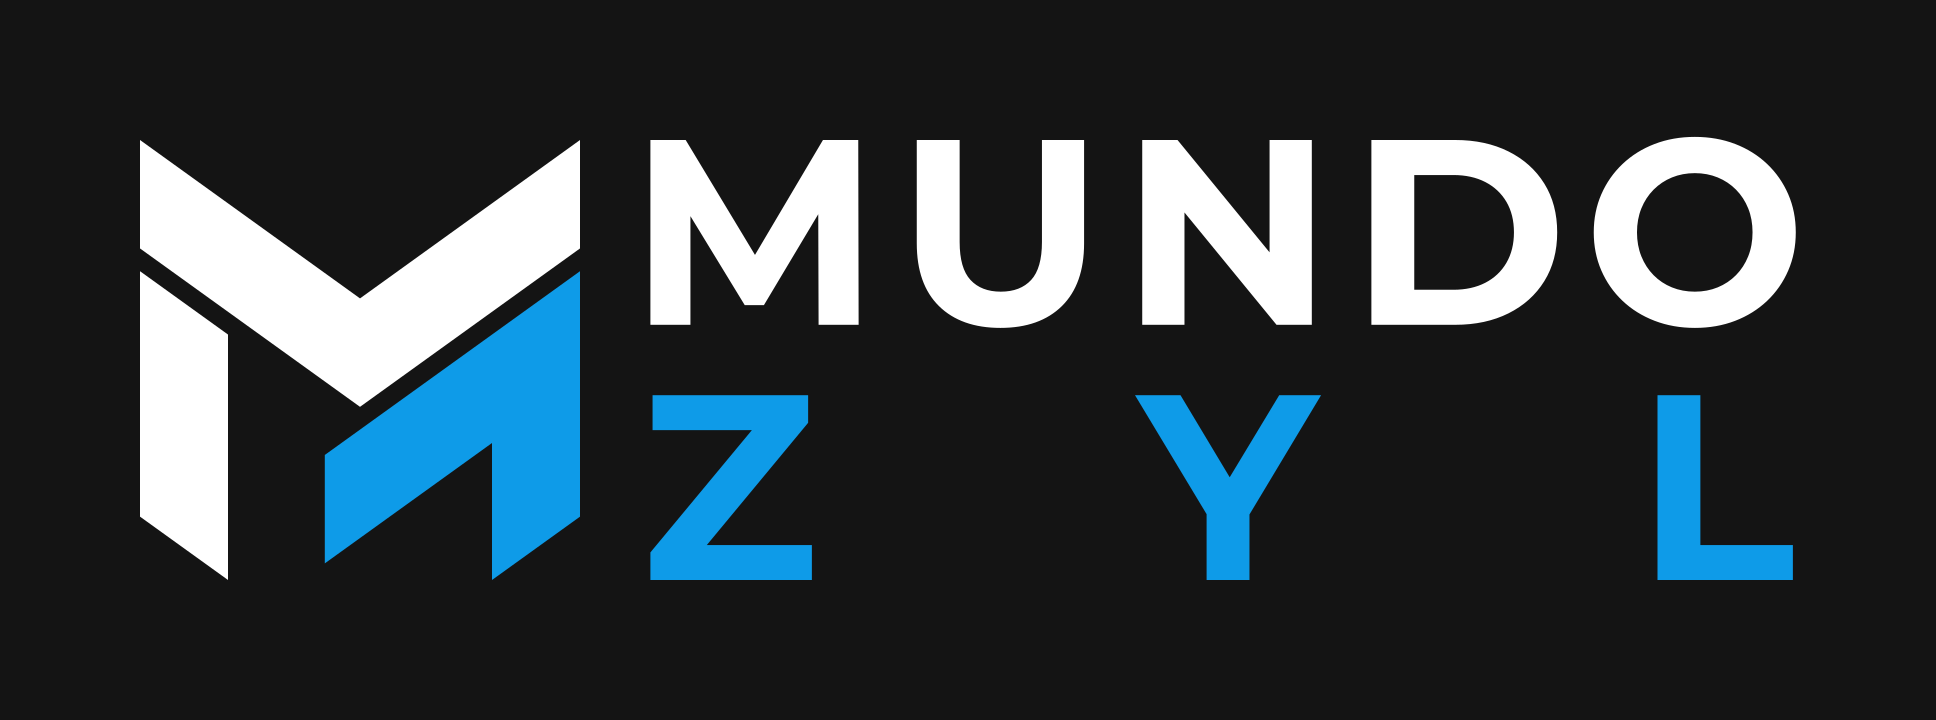
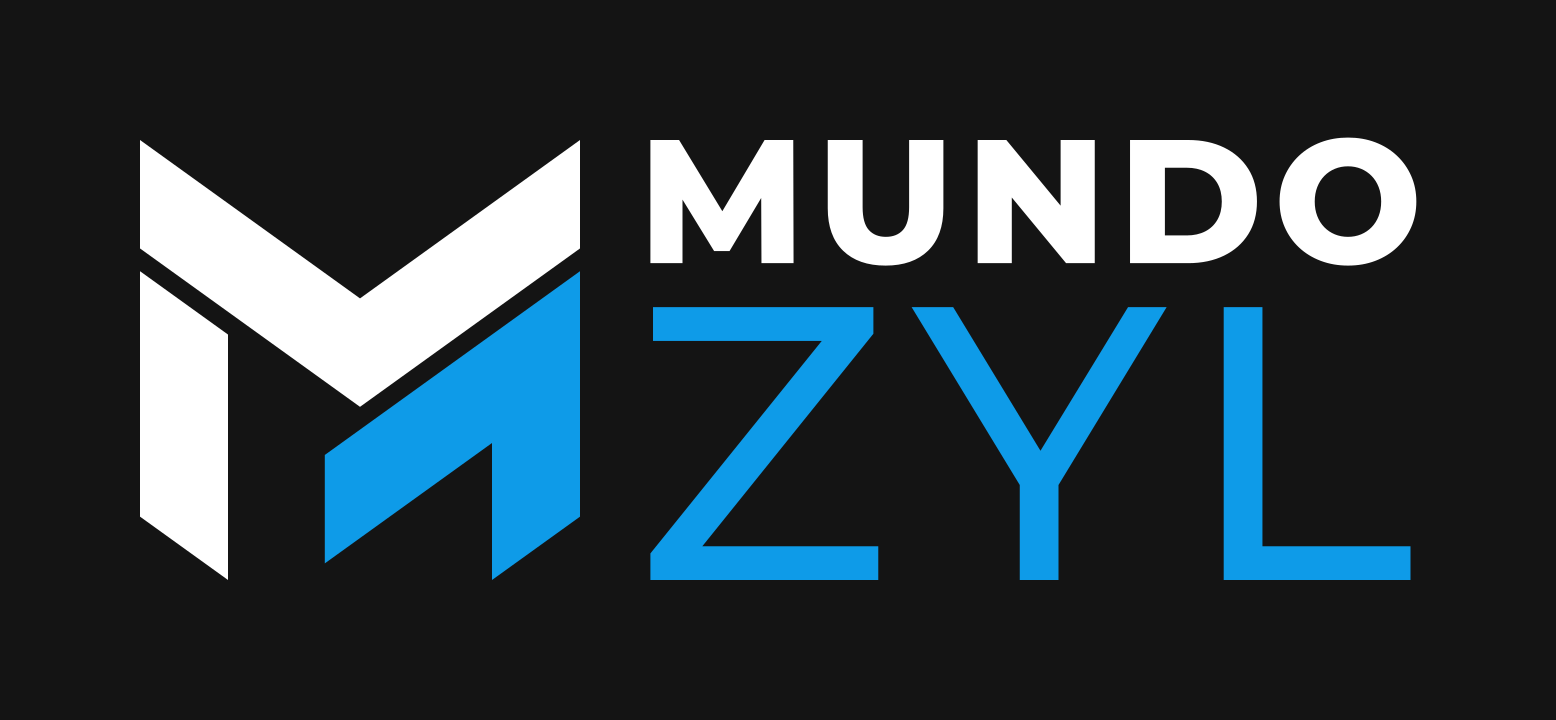
H2 en dos líneas: ZYL más grande al mismo ancho que MUNDO, con pesos equilibrados
Claude-Session: https://claude.ai/code/session_017iQ7X2vjqNYmhsyQEQiYkp

Changed region(s): [[0.0617, 0.1833, 0.9254, 0.825]]

diff --git a/herramientas/generar_logos_ronda3.py b/herramientas/generar_logos_ronda3.py
@@ -60,9 +60,9 @@ def wordmark(x, y_base, cap, c1, c2):
     return f'<path d="{d1}" fill="{c1}"/><path d="{d2}" fill="{c2}"/>', w1 + sep + w2
 
 
-def tinta(cadena, cap, tracking):
+def tinta(cadena, cap, tracking, peso=700):
     """Límites horizontales reales (sin márgenes laterales) del texto en x=0."""
-    f = fuente("montserrat", 700)
+    f = fuente("montserrat", peso)
     gs, cmap = f.getGlyphSet(), f.getBestCmap()
     esc = cap / f["OS/2"].sCapHeight
     pen = BoundsPen(gs)
@@ -74,45 +74,55 @@ def tinta(cadena, cap, tracking):
     return pen.bounds[0], pen.bounds[2]
 
 
+# En dos líneas ZYL va ~2x más grande; para que el grosor del trazo se vea
+# parejo, MUNDO sube de peso y ZYL baja.
+PESO_MUNDO_2L = 800
+PESO_ZYL_2L = 500
+
+
+def proporcion_zyl(tr=0.06):
+    """Cuánto más alto debe ser ZYL que MUNDO para ocupar el mismo ancho."""
+    a0, a1 = tinta("MUNDO", 100, tr, PESO_MUNDO_2L)
+    b0, b1 = tinta("ZYL", 100, tr, PESO_ZYL_2L)
+    return (a1 - a0) / (b1 - b0)
+
+
 def wordmark_2_lineas(x, y_top, cap, interlinea, c1, c2):
-    """MUNDO sobre ZYL, ambas líneas justificadas al mismo ancho de tinta."""
+    """MUNDO sobre ZYL; ZYL se escala (mismo espaciado) hasta igualar el ancho de tinta."""
     tr = 0.06
-    a0, a1 = tinta("MUNDO", cap, tr)
-    ancho = a1 - a0
-    upm_px = 1000 * cap / fuente("montserrat", 700)["OS/2"].sCapHeight
-    b0, b1 = tinta("ZYL", cap, 0)
-    tr_zyl = (ancho - (b1 - b0)) / 2 / upm_px
-    b0, b1 = tinta("ZYL", cap, tr_zyl)
+    cap2 = cap * proporcion_zyl(tr)
+    a0, a1 = tinta("MUNDO", cap, tr, PESO_MUNDO_2L)
+    b0, _ = tinta("ZYL", cap2, tr, PESO_ZYL_2L)
     y1 = y_top + cap
-    y2 = y1 + interlinea + cap
-    d1, _ = texto("montserrat", 700, "MUNDO", cap, x - a0, y1, tr)
-    d2, _ = texto("montserrat", 700, "ZYL", cap, x - b0, y2, tr_zyl)
-    return f'<path d="{d1}" fill="{c1}"/><path d="{d2}" fill="{c2}"/>', ancho
+    y2 = y1 + interlinea + cap2
+    d1, _ = texto("montserrat", PESO_MUNDO_2L, "MUNDO", cap, x - a0, y1, tr)
+    d2, _ = texto("montserrat", PESO_ZYL_2L, "ZYL", cap2, x - b0, y2, tr)
+    return f'<path d="{d1}" fill="{c1}"/><path d="{d2}" fill="{c2}"/>', a1 - a0, cap + interlinea + cap2
 
 
 def horizontal_2_lineas(v, negativo=False):
     """Símbolo a la izquierda; las dos líneas ocupan exactamente su altura."""
     c1, c2, fondo = cols(v, negativo)
     s, m = 220, 70
-    interlinea = s * 0.16
-    cap = (s - interlinea) / 2
+    interlinea = s * 0.10
+    cap = (s - interlinea) / (1 + proporcion_zyl())
     ic = monograma(m, m, s, c1, c2)
     x = m + s + s * 0.16
-    wm, w = wordmark_2_lineas(x, m, cap, interlinea, c1, c2)
+    wm, w, _ = wordmark_2_lineas(x, m, cap, interlinea, c1, c2)
     return svg_doc(x + w + m, s + 2 * m, ic + wm, fondo)
 
 
 def vertical_2_lineas(v, negativo=False):
     c1, c2, fondo = cols(v, negativo)
     s, m = 240, 70
-    cap = 78
-    interlinea = cap * 0.30
-    _, w = wordmark_2_lineas(0, 0, cap, interlinea, c1, c2)
+    cap = 70
+    interlinea = cap * 0.28
+    _, w, h = wordmark_2_lineas(0, 0, cap, interlinea, c1, c2)
     ancho = max(s, w) + 2 * m
     ic = monograma(ancho / 2 - s / 2, m, s, c1, c2)
     y_top = m + s + cap * 0.6
-    wm, _ = wordmark_2_lineas(ancho / 2 - w / 2, y_top, cap, interlinea, c1, c2)
-    return svg_doc(ancho, y_top + 2 * cap + interlinea + m, ic + wm, fondo)
+    wm, _, _ = wordmark_2_lineas(ancho / 2 - w / 2, y_top, cap, interlinea, c1, c2)
+    return svg_doc(ancho, y_top + h + m, ic + wm, fondo)
 
 
 def cols(v, negativo):

diff --git a/README.md b/README.md
@@ -9,7 +9,7 @@ Reproducción vectorial, depurada, de la referencia aportada por el cliente: una
 - **H1 · Negro + azul** (`#141414` / `#0E9BE8`): fiel a la referencia.
 - **H2 · Azul profundo + azul** (`#0B2545` / `#0E9BE8`): variante más corporativa.
 
-**Elegida: H2.** Incluye además versiones con el nombre en **dos líneas** (MUNDO / ZYL) justificadas al mismo ancho: `*_horizontal_2lineas*` y `*_vertical_2lineas*` (ver `propuestas/ronda3/lamina_H2_2lineas.png`).
+**Elegida: H2.** Incluye además versiones con el nombre en **dos líneas**: MUNDO (Montserrat ExtraBold) sobre ZYL más grande (Montserrat Medium), ambas al mismo ancho y con grosor de trazo equilibrado: `*_horizontal_2lineas*` y `*_vertical_2lineas*` (ver `propuestas/ronda3/lamina_H2_2lineas.png`).
 
 Ver `propuestas/ronda3/lamina_comparativa.png`. Regenerar: `python3 herramientas/generar_logos_ronda3.py`
 
